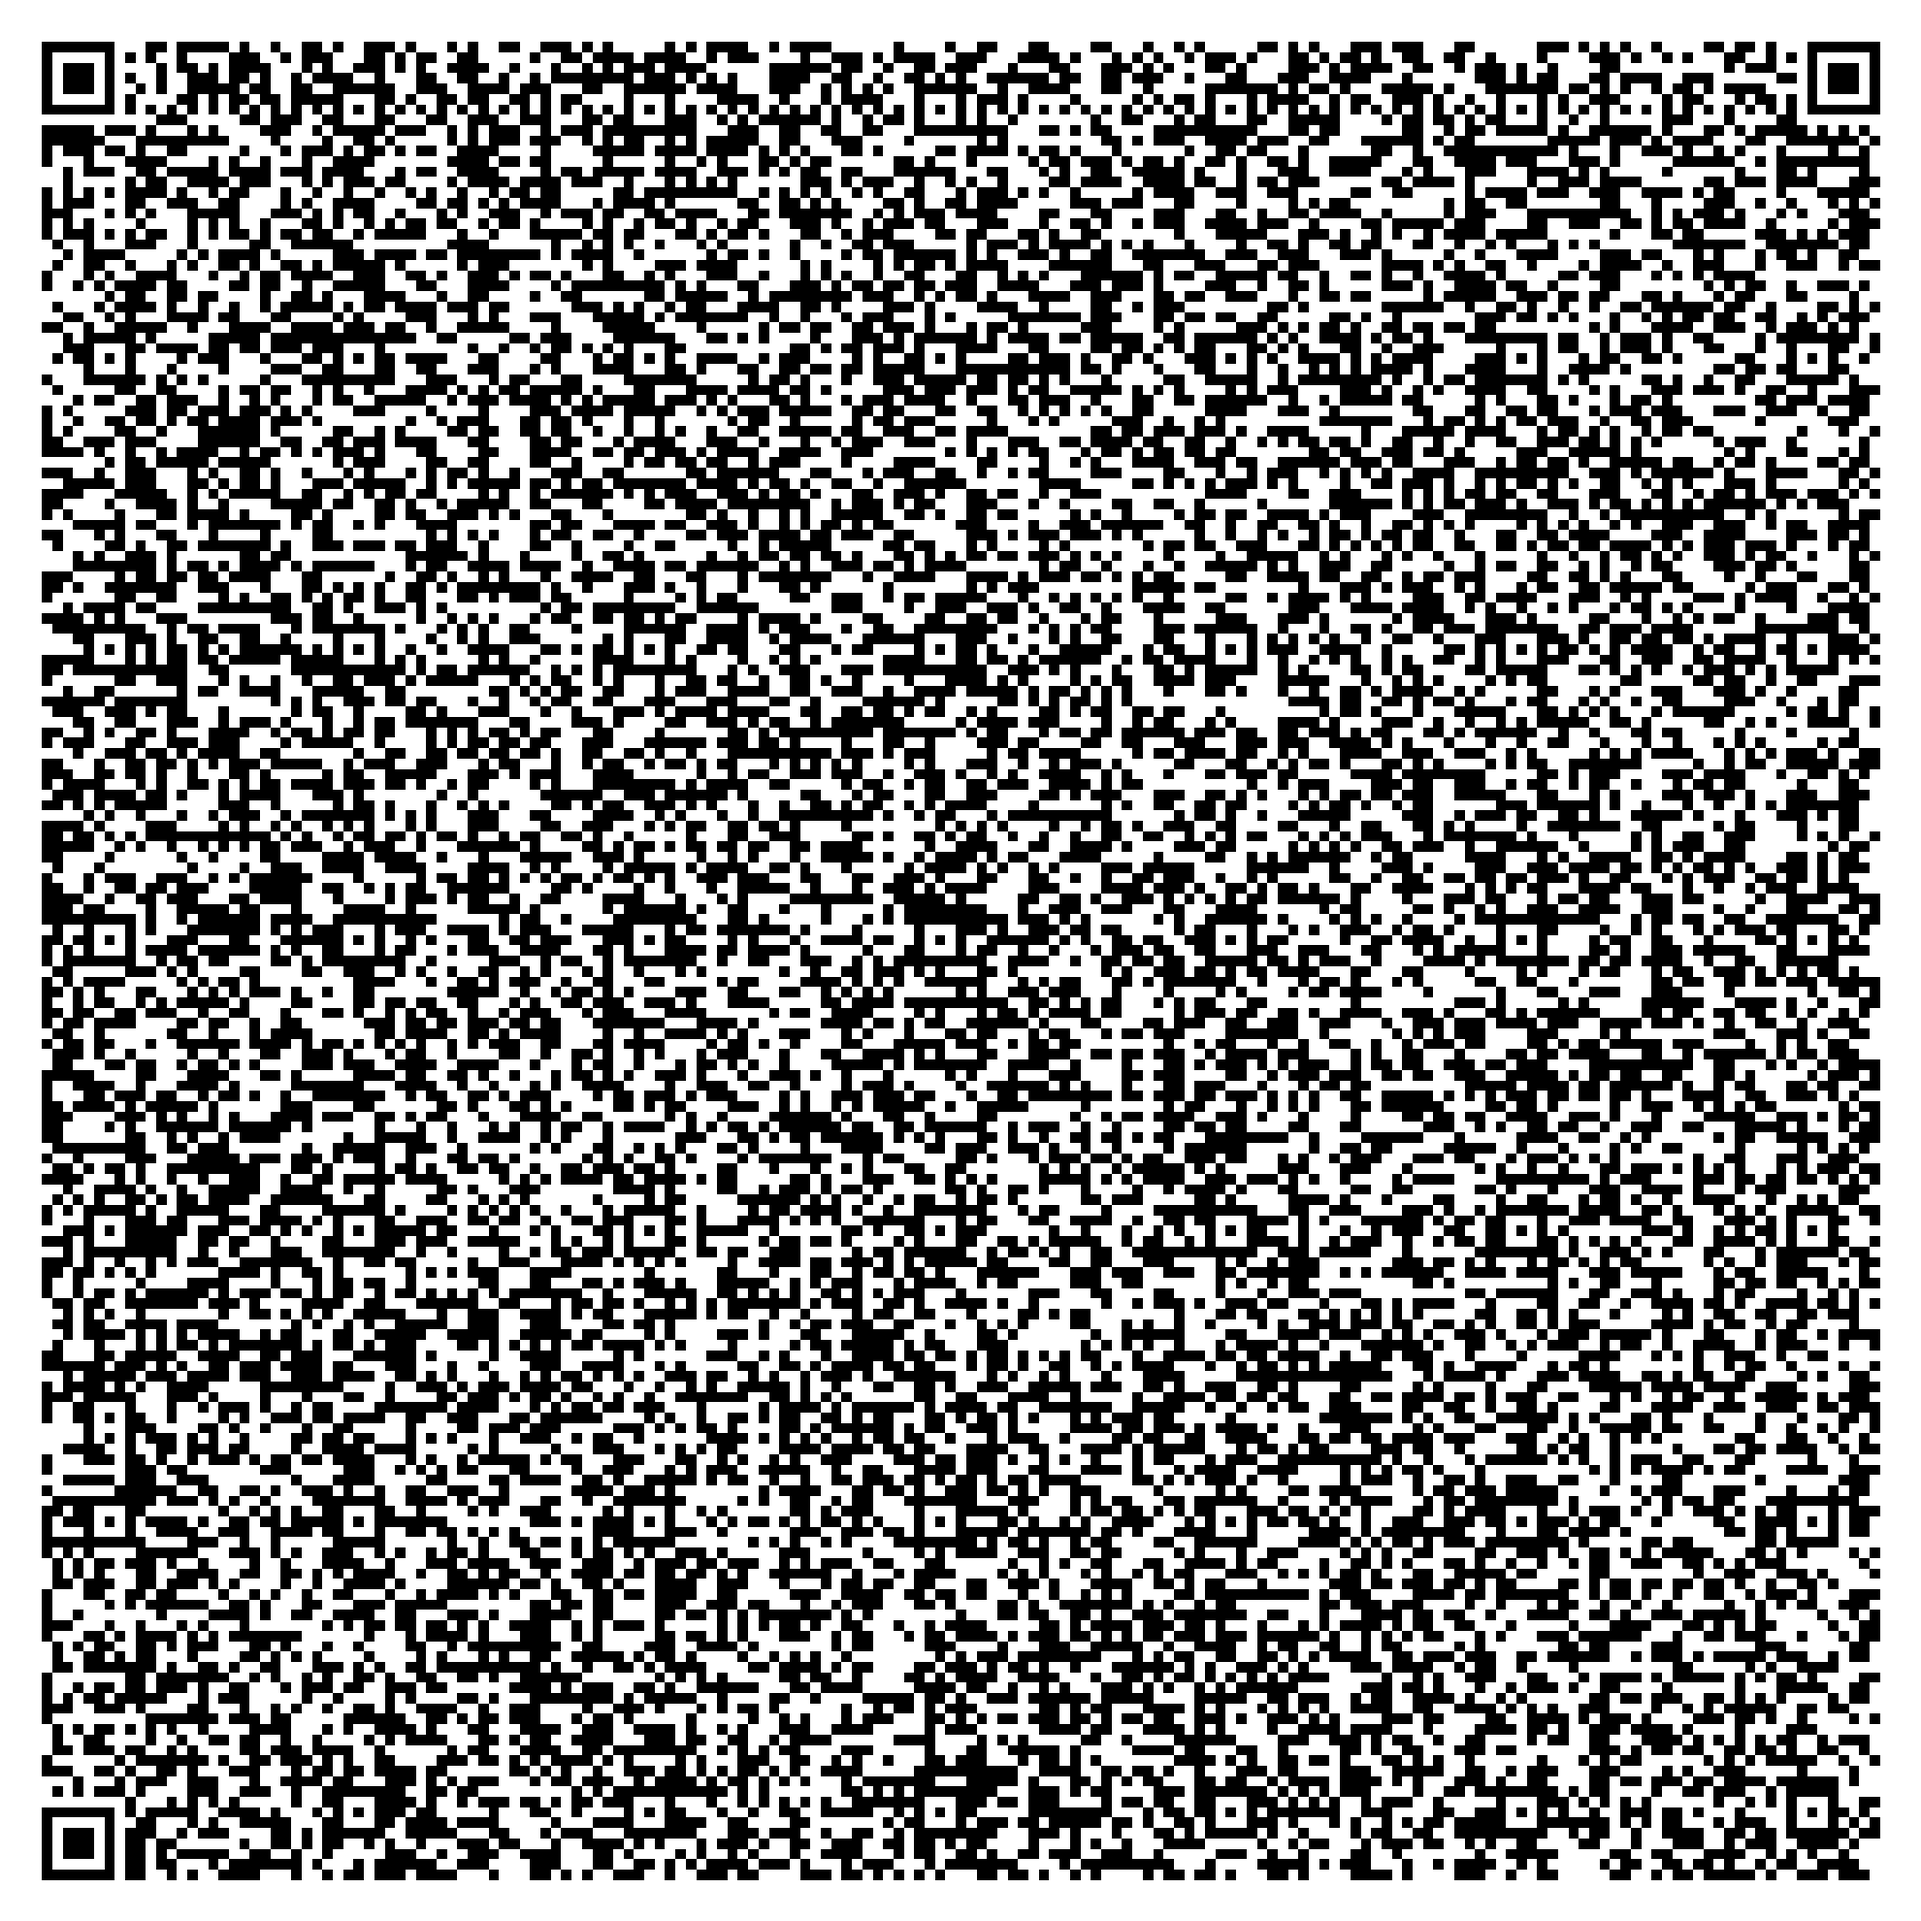
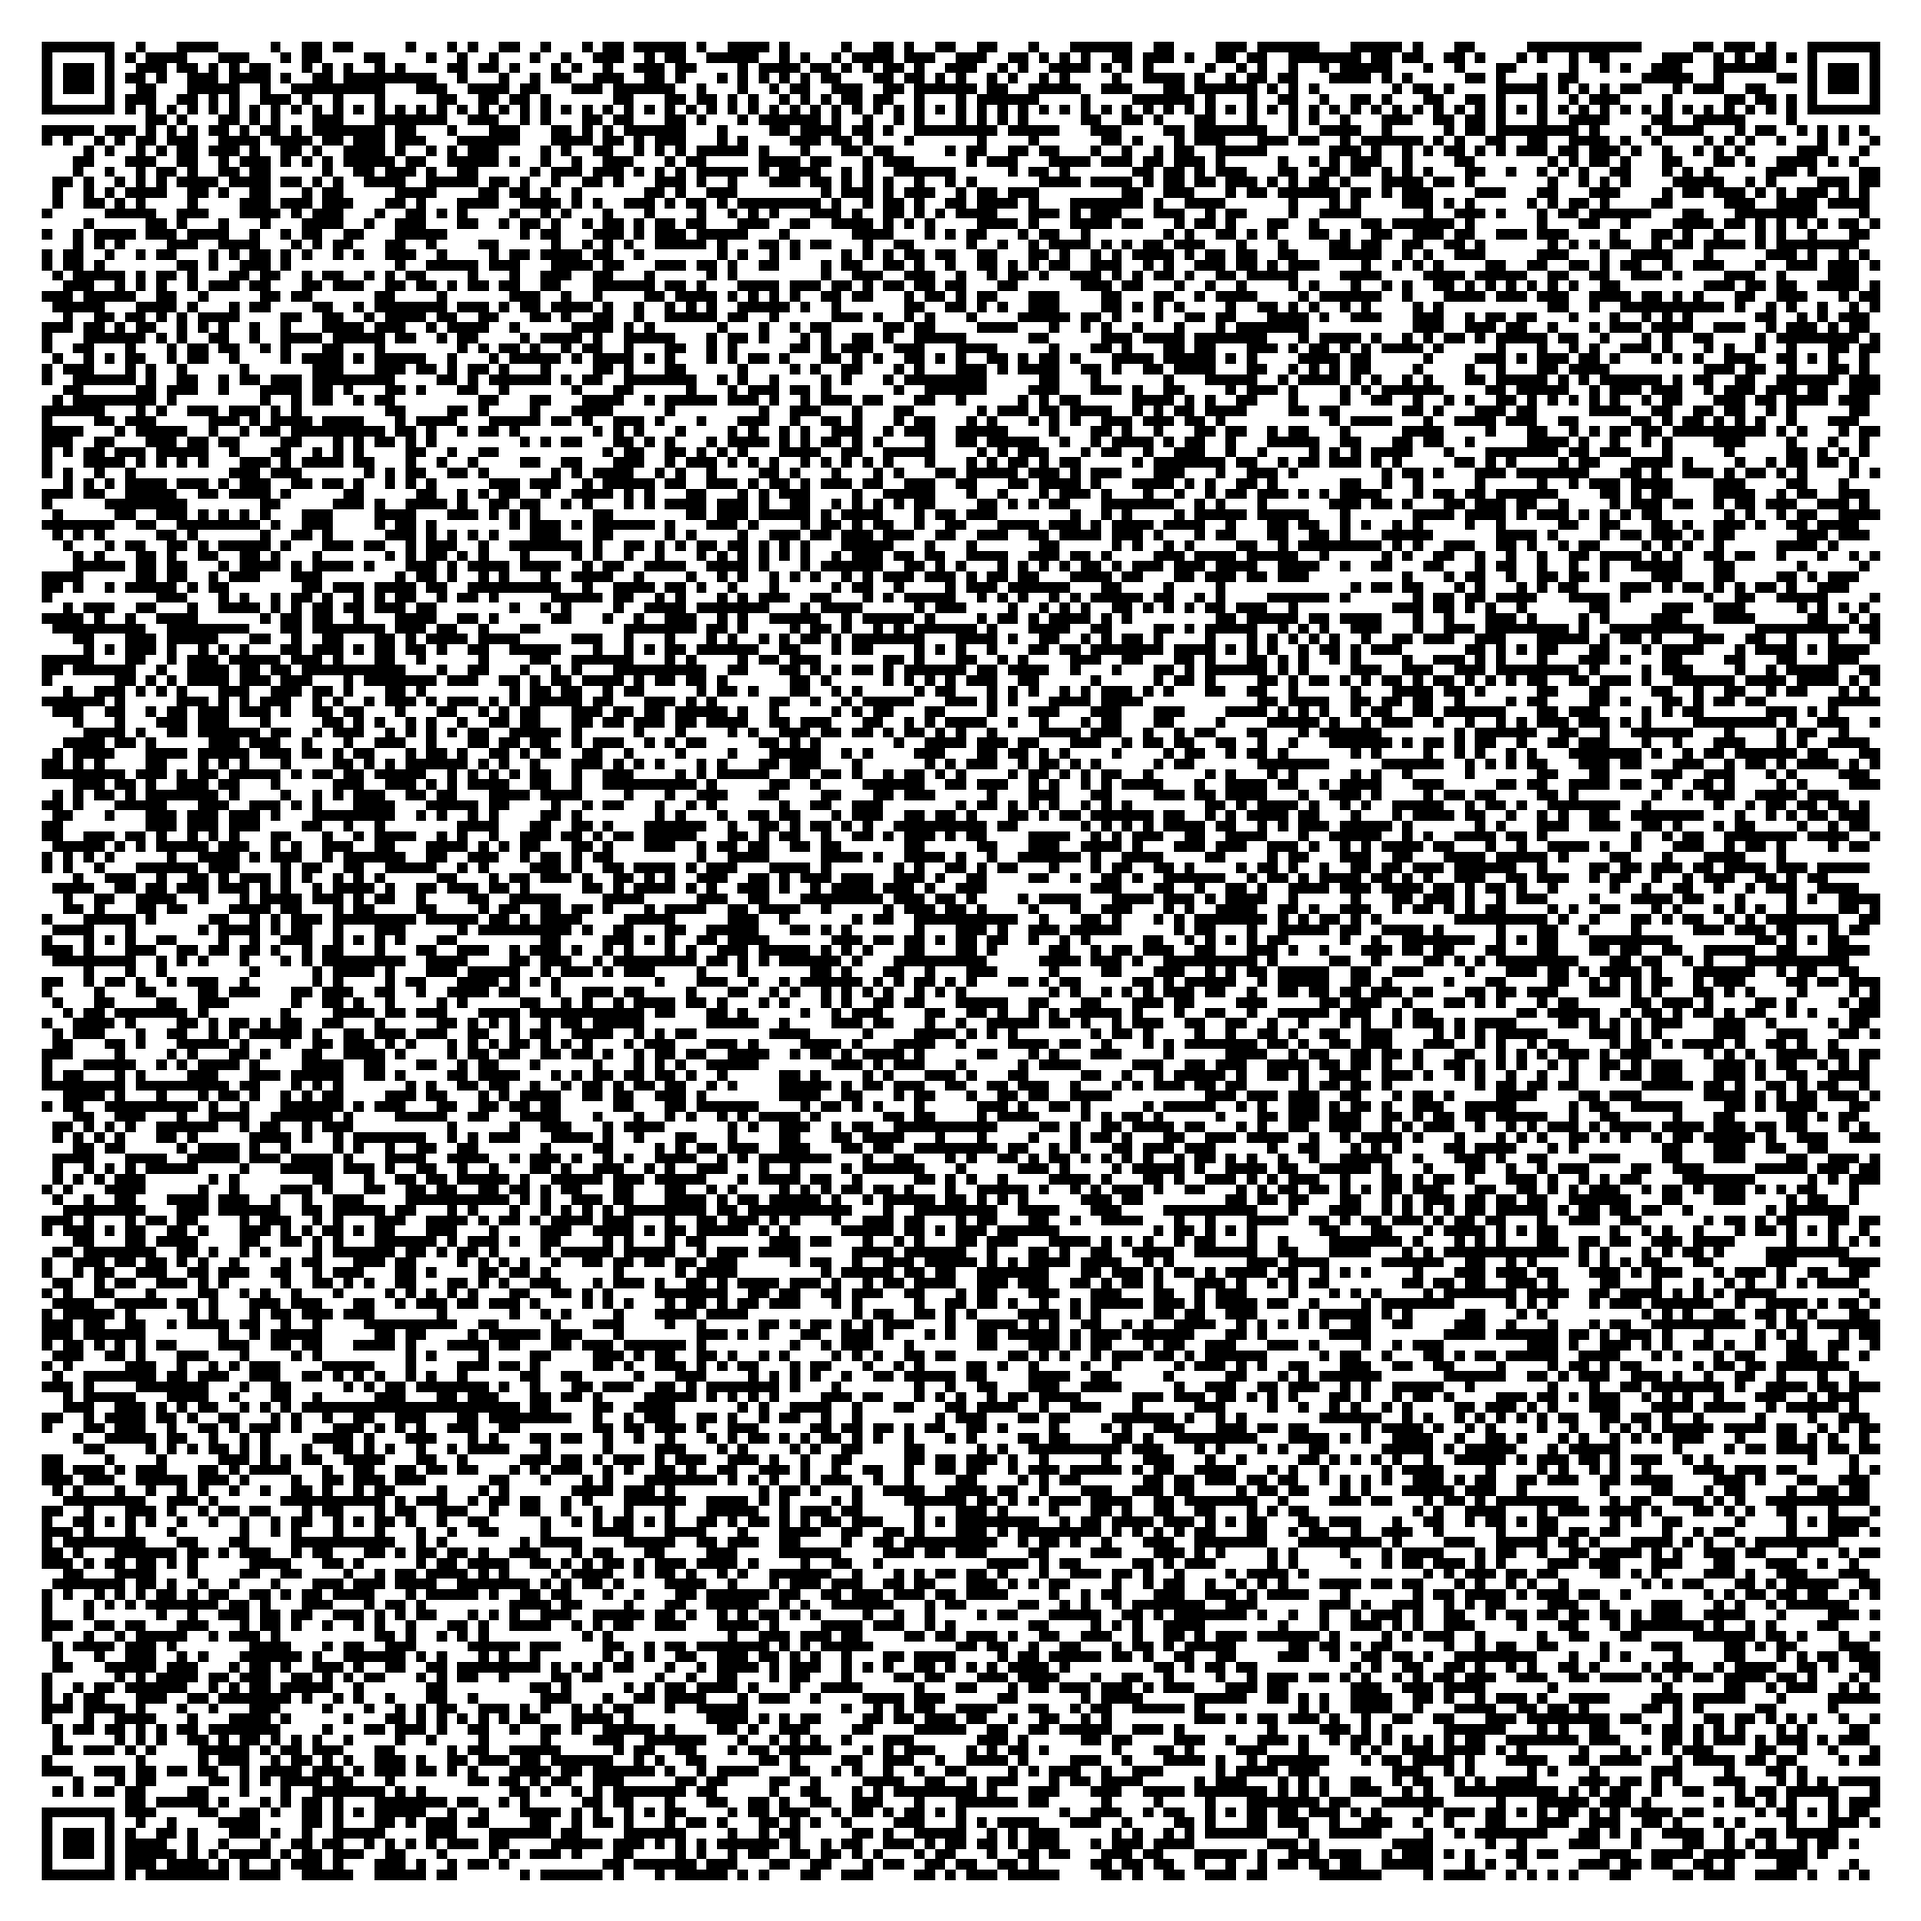
fix split str; update interfaces; add name files

diff --git a/src/index.ts b/src/index.ts
@@ -9,7 +9,7 @@ import * as chalk from 'chalk';
 import { readFile } from 'fs/promises';
 import { Command } from 'commander';
 
-import { IMinifyConfig } from './interfaces/IMinConfig';
+import { IQRSConfig } from './interfaces/IQRSConfig';
 
 import qrs_config from './qrs_config';
 
@@ -102,7 +102,7 @@ const qrsService = {
         const deafultPath = './qrs-config.json';
         validator.errorIfFileNotExists(deafultPath);
         const qrsConfigFile = fs.readFileSync(deafultPath);
-        const qrsConfig: IMinifyConfig = JSON.parse(qrsConfigFile.toString());
+        const qrsConfig: IQRSConfig = JSON.parse(qrsConfigFile.toString());
         return qrsConfig;
     },
     
@@ -198,7 +198,7 @@ const qrsService = {
         return finalPath;
     },
 
-    minifyHtml: (htmlStr: string, qrs_config: IMinifyConfig) => {
+    minifyHtml: (htmlStr: string, qrs_config: IQRSConfig) => {
         const {
             minify,
             htmlminifier_options
@@ -210,7 +210,7 @@ const qrsService = {
         return htmlStr;
     },
 
-    minifyJs: (htmlStr: string, qrs_config: IMinifyConfig) => {
+    minifyJs: (htmlStr: string, qrs_config: IQRSConfig) => {
         const {
             minify,
             uglifyjs_options
@@ -250,7 +250,7 @@ const qrsService = {
         return htmlStr;
     },
 
-    minifyCss: (htmlStr: string, qrs_config: IMinifyConfig) => {
+    minifyCss: (htmlStr: string, qrs_config: IQRSConfig) => {
         const {
             minify,
             csso_options
@@ -289,7 +289,7 @@ const qrsService = {
         return htmlStr;
     },
 
-    minify: async (qrs_min_config: IMinifyConfig) => {
+    minify: async (qrs_min_config: IQRSConfig) => {
         const {
             input_path,
             output_path,
@@ -318,7 +318,20 @@ const qrsService = {
         return compactStrFile.toString();
     },
 
-    splitCode: (strCompressed: string) => {
+    addProjectDetails: (
+        splitedCode: Array<string>,
+        qrsConfig: IQRSConfig
+    ) => {
+        const  {
+            app_name,
+            author,
+            license
+        } = qrsConfig;
+        splitedCode[0] = `${app_name}/${author}/${license}` + splitedCode[0];
+        return splitedCode;
+    },
+
+    splitCode: (strCompressed: string, qrsConfig: IQRSConfig) => {
         //get qtd iterations,
         const qtdCodeSplited = strCompressed.length / 2364;
          //if division result is integer return division result else remove decimals and add 1 iteration
@@ -339,18 +352,21 @@ const qrsService = {
             strStart = strFinal;
         }
         strSplitList.forEach((strSplit, index) => {
-            const strDroped = strSplitList.splice(index);
+            const strDroped = strSplitList.splice(index, 1);
             //add 'index of qrcode/number of qrcode-' in init of str 
             strSplitList.push(`${index}/${iterations}-` + strDroped);
             console.log("index: ", index);
             console.log("interations: ", iterations);
         });
-        return strSplitList;
+        return qrsService.addProjectDetails(
+            strSplitList,
+            qrsConfig
+        );
     },
 
     generateQRCodeList: (
         strSplitList: Array<string>,
-        qrs_config: IMinifyConfig
+        qrs_config: IQRSConfig
     ) => {
         const { output_path } = qrs_config;
         strSplitList.forEach(async (strSplit, index) => {
@@ -385,15 +401,15 @@ const qrs = {
     'build': async () => {
         showMsg.green("Start build . . .");
         //get default config
-        const qrs_config: IMinifyConfig = qrsService.getConfig();
+        const qrs_config: IQRSConfig = qrsService.getConfig();
         //minify html, css, js
         validator.errorFileIfInvalidExtension(qrs_config.input_path, 'html');
         const htmlMinStr = await qrsService.minify(qrs_config);
         const recodifiedHtml = qrsService.reCodifyHtml(htmlMinStr);
         // const compactCodeHtml = qrsService.compactStrFile(recodifiedHtml);
-        const strSplitList = qrsService.splitCode(recodifiedHtml);
+        const strSplitList = qrsService.splitCode(recodifiedHtml, qrs_config);
         qrsService.generateQRCodeList(strSplitList, qrs_config);
-        showMsg.green("Build success . . .");
+        showMsg.green("Successfully built!");
     }
 }
 

diff --git a/src/interfaces/IQRSConfig.ts b/src/interfaces/IQRSConfig.ts
@@ -2,7 +2,10 @@ import  * as htmlminifier from 'html-minifier';
 import * as uglyfyJs  from 'uglify-js';
 import * as csso from 'csso';
 
-export interface IMinifyConfig {
+export interface IQRSConfig {
+    app_name: string,
+    author: string,
+    license: string,
     input_path: string;
     output_path: string;
     minify_config: {

diff --git a/src/qrs_config.ts b/src/qrs_config.ts
@@ -1,5 +1,8 @@
 
 export default `{
+    "app_name": "your_app_name",
+    "author": "owner",
+    "license": "MIT",
     "input_path": "public/index.html",
     "output_path": "qrcode",
     "minify_config": {
